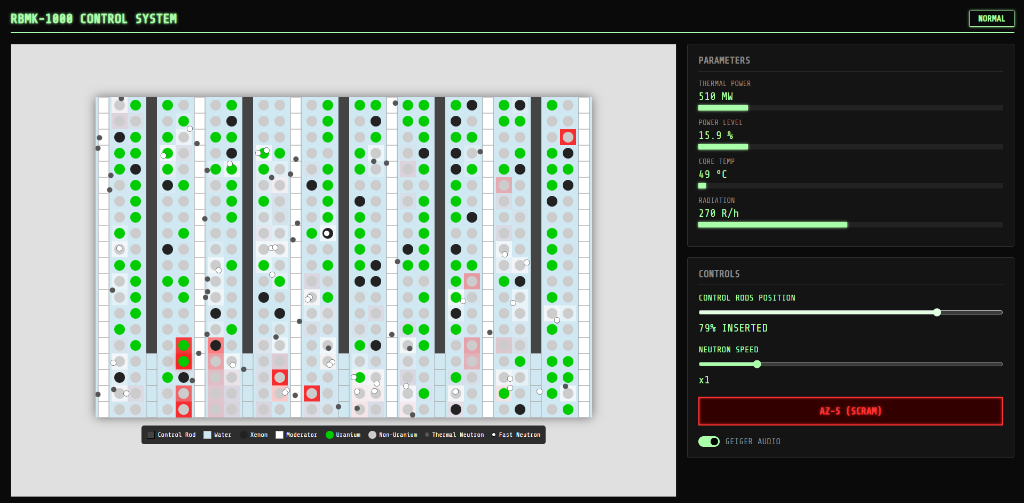
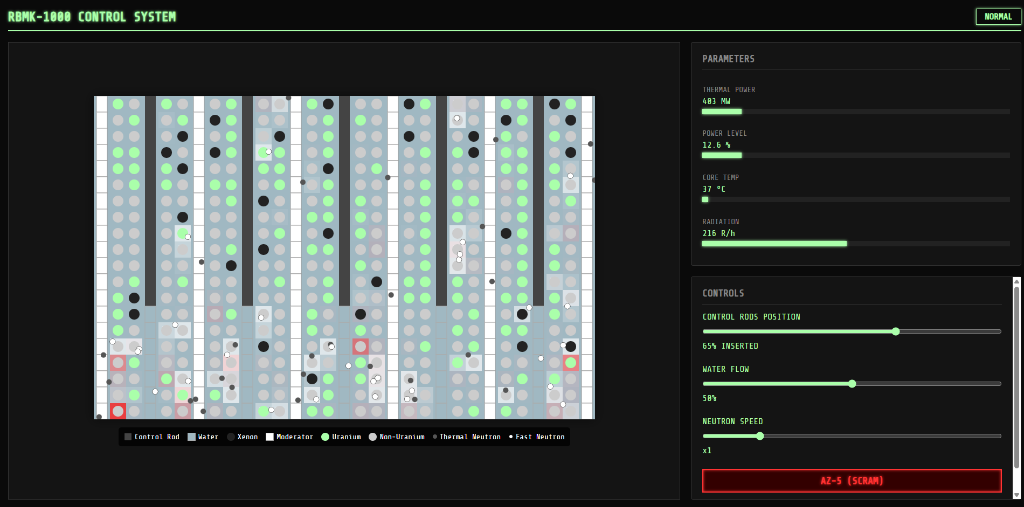
Update visuals, layout, and add water flow control

diff --git a/script.js b/script.js
@@ -20,7 +20,9 @@ let state = {
     grid: [], // 2D array of cells
     particles: [],
     audioEnabled: false,
-    isScrammed: false
+    audioEnabled: false,
+    isScrammed: false,
+    waterFlow: 50 // % Flow rate
 };
 
 // Audio
@@ -42,6 +44,8 @@ const rodControlEl = document.getElementById('rod-control');
 const rodValEl = document.getElementById('rod-val');
 const speedControlEl = document.getElementById('speed-control');
 const speedValEl = document.getElementById('speed-val');
+const flowControlEl = document.getElementById('flow-control');
+const flowValEl = document.getElementById('flow-val');
 const az5Btn = document.getElementById('az5-btn');
 const audioToggle = document.getElementById('audio-toggle');
 const statusEl = document.getElementById('system-status');
@@ -147,6 +151,13 @@ function init() {
         speedControlEl.addEventListener('input', (e) => {
             SPEED_MULTIPLIER = parseFloat(e.target.value);
             if (speedValEl) speedValEl.textContent = SPEED_MULTIPLIER;
+        });
+    }
+
+    if (flowControlEl) {
+        flowControlEl.addEventListener('input', (e) => {
+            state.waterFlow = parseInt(e.target.value);
+            if (flowValEl) flowValEl.textContent = state.waterFlow;
         });
     }
 
@@ -272,8 +283,13 @@ function updatePhysics() {
             if (cell.boil > 0) cell.boil *= 0.9;
 
             // Water Cooling / Heat Decay
+            // Flow 0% -> Cooling 0.2x (Very slow)
+            // Flow 50% -> Cooling 1.0x (Normal)
+            // Flow 100% -> Cooling 1.8x (Fast)
+            let coolingFactor = 0.2 + 1.6 * (state.waterFlow / 100);
+
             if (cell.temp > 20) {
-                cell.temp -= 0.5 * SPEED_MULTIPLIER;
+                cell.temp -= 0.5 * SPEED_MULTIPLIER * coolingFactor;
             }
             if (cell.temp < 20) cell.temp = 20;
 
@@ -312,7 +328,14 @@ function updatePhysics() {
             // Scale with SPEED_MULTIPLIER to compensate for skipping cells at high speeds
             if (cell.type !== TYPE_ROD && cell.type !== TYPE_MODERATOR) {
                 cell.boil = Math.min(100, cell.boil + 30 * SPEED_MULTIPLIER);
-                cell.temp += 2 * SPEED_MULTIPLIER; // Heat up water/fuel proportional to speed
+
+                // Heating Rate
+                // Flow 0% -> Heating 1.5x (Fast)
+                // Flow 50% -> Heating 1.0x (Normal)
+                // Flow 100% -> Heating 0.5x (Slow)
+                let heatingFactor = 1.5 - (state.waterFlow / 100);
+
+                cell.temp += 2 * SPEED_MULTIPLIER * heatingFactor; // Heat up water/fuel proportional to speed
             }
 
             // Interaction Logic
@@ -384,7 +407,8 @@ function updatePhysics() {
 
 function draw() {
     // Clear
-    ctx.fillStyle = '#d0e8f2'; // Base Water background
+    // Clear
+    ctx.fillStyle = '#a0b8c2'; // Base Water background (Darker)
     ctx.fillRect(0, 0, canvas.width, canvas.height);
 
     // Draw Grid
@@ -438,7 +462,7 @@ function draw() {
                 }
             } else if (cell.type === TYPE_FUEL) {
                 let color = '#ccc';
-                if (cell.fuelState === FUEL_URANIUM) color = '#00cc00';
+                if (cell.fuelState === FUEL_URANIUM) color = '#aaffaa'; // Matches CSS
                 else if (cell.fuelState === FUEL_XENON) color = '#222';
 
                 // Heat glow for fuel specifically

diff --git a/style.css b/style.css
@@ -60,11 +60,14 @@ main {
     flex: 1;
     gap: 20px;
     overflow: hidden;
+    align-items: stretch;
+    /* Force equal height */
+    min-height: 0;
 }
 
 .reactor-container {
     flex: 2;
-    background: #e0e0e0;
+    background: var(--panel-bg);
     /* Light background for water/contrast */
     border: 1px solid #333;
     display: flex;
@@ -74,13 +77,19 @@ main {
     position: relative;
     overflow: hidden;
     padding: 10px;
+    height: 100%;
+    /* Fill parent height */
 }
 
 canvas {
-    background-color: #d0e8f2;
+    background-color: #a0b8c2;
     /* Water color base */
     box-shadow: 0 0 20px rgba(0, 0, 0, 0.5);
     margin-bottom: 15px;
+    max-width: 100%;
+    max-height: 100%;
+    width: auto;
+    height: auto;
 }
 
 .legend {
@@ -92,7 +101,7 @@ canvas {
     padding: 10px;
     border-radius: 5px;
     color: #fff;
-    font-size: 12px;
+    font-size: 14px;
 }
 
 .legend-item {
@@ -113,7 +122,7 @@ canvas {
 }
 
 .symbol.water {
-    background: #d0e8f2;
+    background: #a0b8c2;
     border: 1px solid #aaa;
 }
 
@@ -128,7 +137,7 @@ canvas {
 }
 
 .symbol.uranium {
-    background: #00cc00;
+    background: #aaffaa;
     border-radius: 50%;
 }
 
@@ -158,6 +167,9 @@ canvas {
     flex-direction: column;
     gap: 20px;
     min-width: 300px;
+    height: 100%;
+    /* Fill parent height */
+    overflow: hidden;
 }
 
 .panel-section {
@@ -165,6 +177,13 @@ canvas {
     border: 1px solid #333;
     padding: 20px;
     border-radius: 4px;
+    flex: 1;
+    display: flex;
+    flex-direction: column;
+    justify-content: space-between;
+    min-height: 0;
+    /* Allow shrinking */
+    overflow-y: auto;
 }
 
 h2 {
@@ -187,7 +206,7 @@ h2 {
 }
 
 .value-display {
-    font-size: 20px;
+    font-size: 16px;
     margin-bottom: 5px;
 }
 
@@ -218,7 +237,7 @@ input[type="range"] {
     background: #300;
     color: var(--danger-color);
     border: 2px solid var(--danger-color);
-    padding: 15px;
+    padding: 10px;
     width: 100%;
     font-family: var(--font-main);
     font-size: 18px;

diff --git a/index.html b/index.html
@@ -73,6 +73,12 @@
                     </div>
 
                     <div class="control-group">
+                        <label for="flow-control">WATER FLOW</label>
+                        <input type="range" id="flow-control" min="0" max="100" value="50" step="1">
+                        <div class="value-display"><span id="flow-val">50</span>%</div>
+                    </div>
+
+                    <div class="control-group">
                         <label for="speed-control">NEUTRON SPEED</label>
                         <input type="range" id="speed-control" min="0.1" max="5" value="1" step="0.1">
                         <div class="value-display">x<span id="speed-val">1</span></div>

diff --git a/README.md b/README.md
@@ -22,6 +22,9 @@ An interactive web-based simulation of the Chernobyl RBMK-1000 reactor core, ins
 ## Controls
 
 *   **Control Rods Position**: Slide to insert or withdraw control rods. Withdrawing rods increases reactivity.
+*   **Water Flow**: Control the rate of coolant flow.
+    *   **0%**: Low flow. Water heats up rapidly (simulating pump failure).
+    *   **100%**: High flow. Water cools down quickly.
 *   **Neutron Speed**: Adjust the simulation speed. Physics (heating/boiling) scale proportionally.
 *   **AZ-5 (SCRAM)**: Emergency shutdown button. Rapidly inserts all control rods to kill the reaction.
 *   **Geiger Audio**: Toggle the radiation sound effects.
